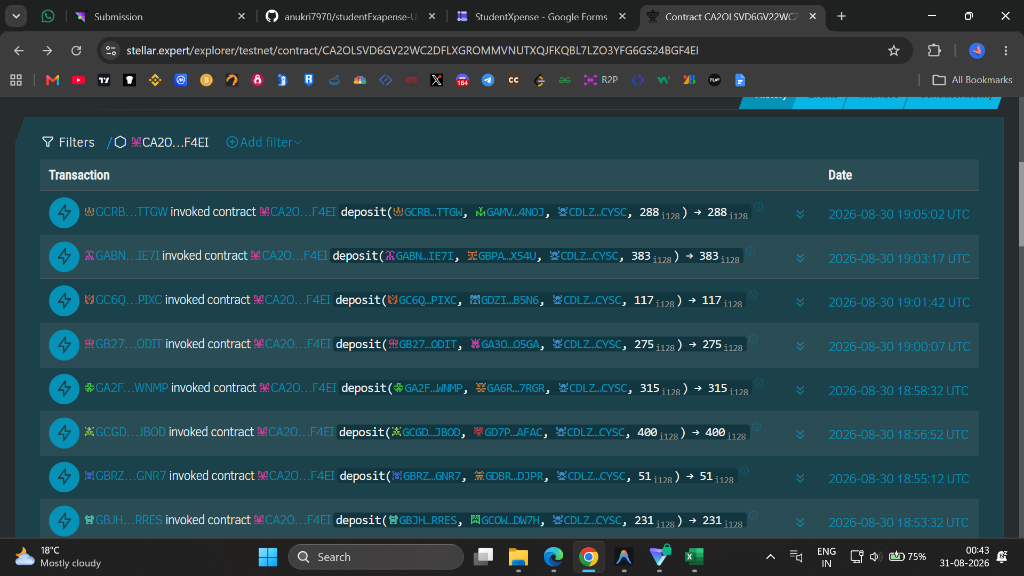
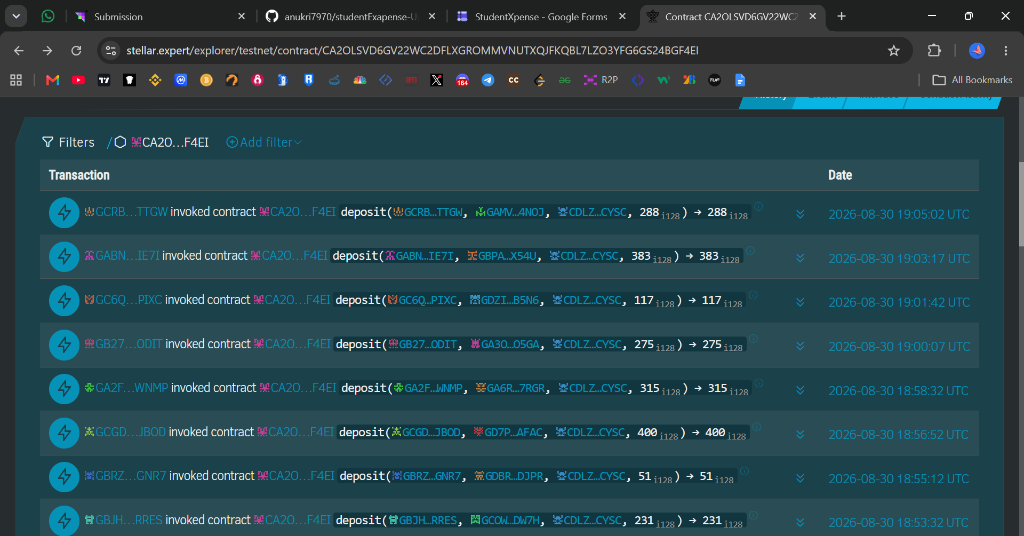
docs: Add Stellar contract screenshot and remove old explorer proof image

diff --git a/README.md b/README.md
@@ -99,11 +99,11 @@ contracts/  Soroban (Rust) — the SendFunds escrow contract + tests
 - **PostHog & Sentry**: Full telemetry and error monitoring integration.
   ![Analytics](screenshots/analytics_console.png)
 
----
+### Stellar Expert Contract View
+- **Live Contract on Stellar Testnet Explorer**:
+  ![Stellar Contract](screenshots/stellar_contract.png)
 
-### Explorer Proof
-- **Stellar Expert Contract View**:
-  ![Explorer Proof](screenshots/explorer_proof.png)
+---
 
 ## 8. User Growth Metrics (Level 4)
 
